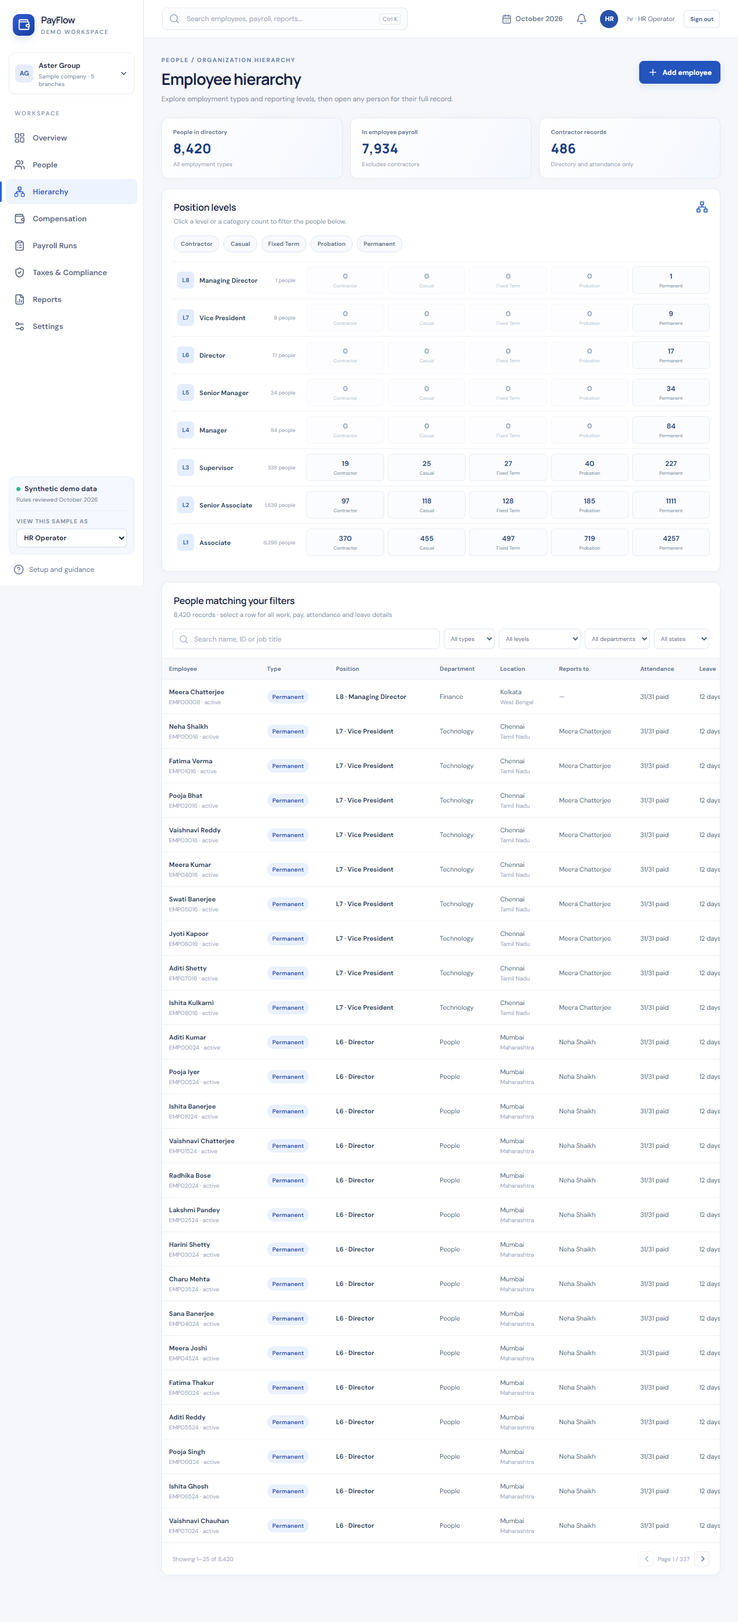
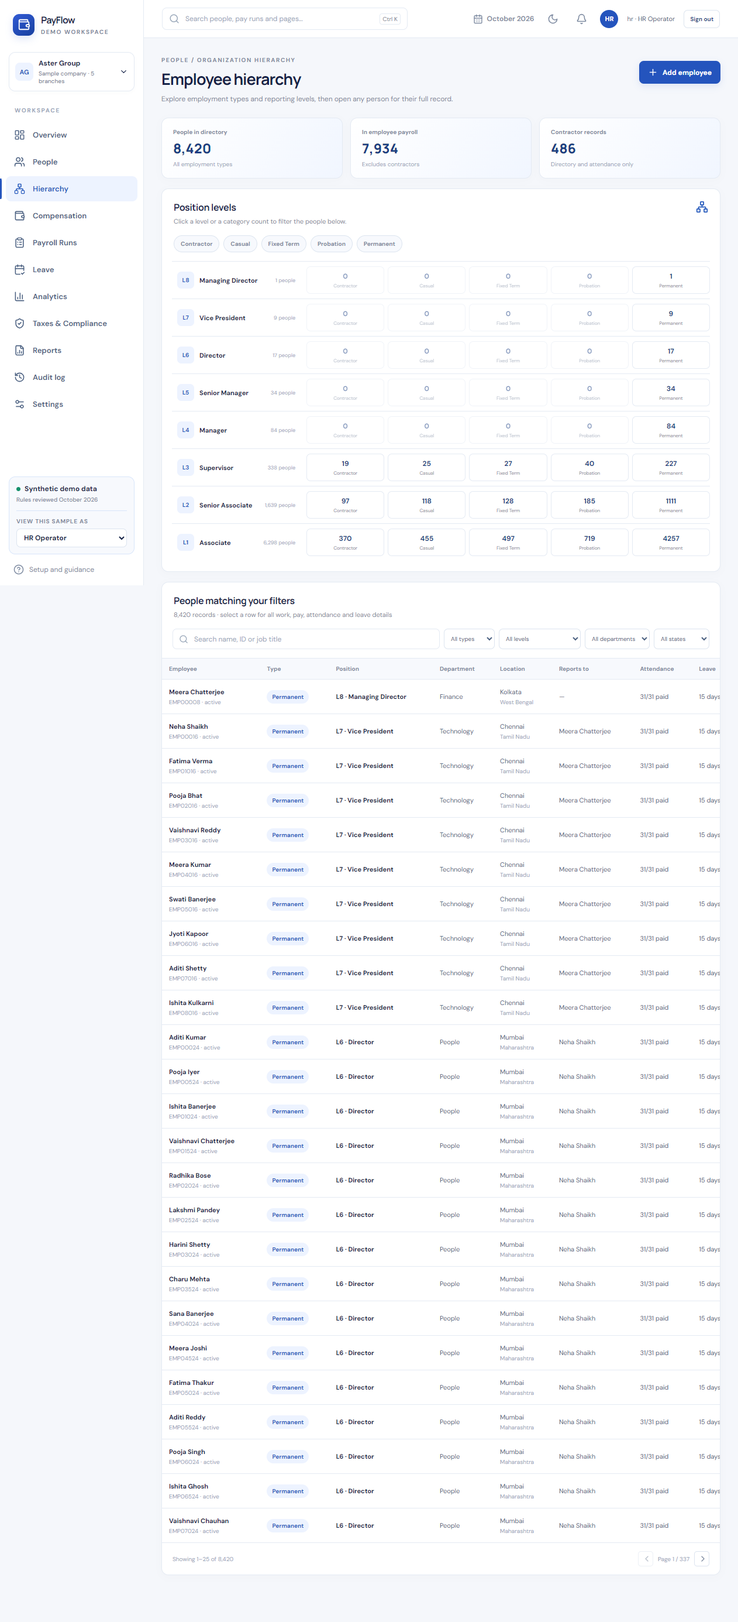
docs: document Phase 3 features, compliance rules and screenshots

diff --git a/README.md b/README.md
@@ -4,9 +4,10 @@
 
 PayFlow is a multi-tenant payroll application for Indian companies. Anyone can sign up and create an organization —
 empty, or pre-filled with a generated sample company — and run the whole monthly cycle: employee records and
-hierarchy, salary revisions, pay periods, CSV input import, calculation (income tax, EPF, ESI and state deductions),
-exception review, maker-checker approval, payment, period close, payslips, statutory preparation reports and an
-audit trail. Employees get a self-service portal for their own record, tax-regime choice and payslips.
+hierarchy, salary revisions, leave, pay periods, CSV input import, calculation (income tax, EPF, ESI and state
+deductions), exception review, maker-checker approval, payment, period close, PDF payslips, statutory preparation
+reports, analytics and an audit log. Employees get a self-service portal for their payslips, an old-versus-new
+regime tax calculator with their Form 124 declaration, and leave requests that their manager or HR approves.
 
 > **Synthetic data only.** PayFlow is a portfolio project. Its rules were reviewed against Indian regulations in
 > October 2026, but it is not a certified payroll product and its exports are not government or bank upload
@@ -18,14 +19,14 @@ audit trail. Employees get a self-service portal for their own record, tax-regim
 
 PayFlow is being rebuilt from its first prototype in phases. Each phase is committed and pushed when complete.
 
-| Phase                      | Scope                                                                                                                                                                  | Status  |
-| -------------------------- | ---------------------------------------------------------------------------------------------------------------------------------------------------------------------- | ------- |
-| 0 · Baseline & cleanup     | Rebrand to PayFlow, remove hosting/mobile code, run locally with zero setup                                                                                            | ✅ Done |
-| Compliance review          | Rules updated to October 2026 regulations: Labour Codes wage definition, EPF ₹25,000 ceiling with the September split, ESI period rules, state PT/LWF                  | ✅ Done |
-| 1 · Engineering foundation | Shared Zod schemas, Drizzle migrations, modular Fastify API, React Router + TanStack Query, readable components and CSS, unit/integration/end-to-end tests, ESLint, CI | ✅ Done |
-| 2 · Multi-tenant sandbox   | Sign-up and onboarding, sample companies with history, tenant isolation, invitations, pay periods with send-back/pay/close, salary revisions, exits, year-to-date TDS  | ✅ Done |
-| 3 · Features               | Payslip PDFs and history, tax-regime calculator, analytics dashboard, leave & attendance, notifications, Ctrl-K palette, dark mode, audit log page                     | ⏳ Next |
-| 4 · Docs polish            | Architecture walkthrough and final screenshots                                                                                                                         | Planned |
+| Phase                      | Scope                                                                                                                                                                     | Status  |
+| -------------------------- | ------------------------------------------------------------------------------------------------------------------------------------------------------------------------- | ------- |
+| 0 · Baseline & cleanup     | Rebrand to PayFlow, remove hosting/mobile code, run locally with zero setup                                                                                               | ✅ Done |
+| Compliance review          | Rules updated to October 2026 regulations: Labour Codes wage definition, EPF ₹25,000 ceiling with the September split, ESI period rules, state PT/LWF                     | ✅ Done |
+| 1 · Engineering foundation | Shared Zod schemas, Drizzle migrations, modular Fastify API, React Router + TanStack Query, readable components and CSS, unit/integration/end-to-end tests, ESLint, CI    | ✅ Done |
+| 2 · Multi-tenant sandbox   | Sign-up and onboarding, sample companies with history, tenant isolation, invitations, pay periods with send-back/pay/close, salary revisions, exits, year-to-date TDS     | ✅ Done |
+| 3 · Features               | PDF payslips and history, regime calculator with Form 124 declarations, analytics, OSH Code leave, notifications, Ctrl-K palette, dark mode, audit log, multi-org sign-in | ✅ Done |
+| 4 · Docs polish            | Architecture walkthrough and final screenshots                                                                                                                            | ⏳ Next |
 
 ## Quick start
 
@@ -69,9 +70,13 @@ To start over, stop the app and delete the `data/` folder.
 5. Open **New pay run** for November: the payment date must be before the 7th of the next month, and November's tax
    projection uses October's approved pay.
 6. In **People** or **Compensation**, open a person to edit their record, add a salary revision effective from a
-   future month, or record an exit (the exit month is pro-rated and flagged for two-day final settlement).
-7. Sign in as `employee` to see only your own record, choose a tax regime (while the run is a draft) and view your
-   latest approved payslip.
+   future month, check their tax declaration and leave, or record an exit (the exit month is pro-rated and flagged
+   for two-day final settlement).
+7. Sign in as `employee`: compare the two tax regimes and declare rent and savings under **Tax & declarations**,
+   request leave without pay under **Leave**, and download payslips as PDF.
+8. Back as `hr`, the bell shows the request. Approve it on **Leave**, recalculate October, and the employee's line
+   shows the unpaid days. Press **Ctrl K** anywhere to jump to a person, a pay run or a page, and use the moon
+   icon for dark mode.
 
 ## Features
 
@@ -89,9 +94,22 @@ To start over, stop the app and delete the `data/` folder.
   days. Monthly TDS uses actual year-to-date salary and tax from approved runs.
 - **People**: directory, hierarchy explorer, editable records, effective-dated salary revisions, exits with
   reassignment checks.
-- **Calculation engine** (rule version `IN-TY2026-27-v2`, reviewed October 2026):
+- **Tax declarations and regimes**: employees declare rent, s. 123 savings, NPS, health insurance and home-loan
+  interest on a Form 124-style form, HR verifies it, and a calculator compares the year under both regimes with
+  the same projection that monthly TDS uses.
+- **Leave**: earned leave under the OSH Code (one day per 20 days worked last year, after 180 days, with up to 30
+  days carried forward), sick and casual leave, and leave without pay. Requests go to the person's manager or HR;
+  approved unpaid leave becomes loss of pay in that month's run.
+- **Payslips**: a wage slip for every approved month, viewable in the portal or downloadable as a PDF with
+  earnings, deductions, employer contributions and statutory wages.
+- **Analytics**: monthly cost trend, cost by department, statutory contributions, headcount by level and type, and
+  the biggest month-over-month pay changes. Lines whose gross pay moves more than 25% are flagged for review.
+- **Workspace**: a notification bell (approval requests, send-backs, payslips, leave decisions), a Ctrl K
+  command palette with server-side search, an audit log with filters, dark mode, and one sign-in for several
+  organizations with a switcher.
+- **Calculation engine** (rule version `IN-TY2026-27-v3`, reviewed October 2026):
   - Income-tax Act, 2025: both regimes, the ₹60,000 rebate with marginal relief, surcharge and cess, monthly TDS
-    under s. 392.
+    under s. 392, and old-regime deductions from Form 124 including the 50% HRA limit for eight cities (rule 279).
   - Labour Codes "wages" with the 50% exclusion cap; Code on Wages payment deadline and exit settlement reminder.
   - EPF/EPS/EDLI: the ₹25,000 ceiling from 17 September 2026 with the EPFO day-split for September, EPS exit at 58,
     and admin charges.
@@ -101,26 +119,32 @@ To start over, stop the app and delete the `data/` folder.
 
 ## Interface
 
-| Sign-up                                                      | Pay runs                                                 |
-| ------------------------------------------------------------ | -------------------------------------------------------- |
-| ![Sign-up](docs/screenshots/signup.png)                      | ![Pay runs](docs/screenshots/pay-runs.png)               |
-| **Calculation trace**                                        | **Salary history**                                       |
-| ![Calculation trace](docs/screenshots/calculation-trace.png) | ![Salary history](docs/screenshots/salary-history.png)   |
-| **State rules**                                              | **Employee portal**                                      |
-| ![State rules](docs/screenshots/compliance.png)              | ![Employee portal](docs/screenshots/employee-portal.png) |
+| Analytics                                                    | Analytics in dark mode                                         |
+| ------------------------------------------------------------ | -------------------------------------------------------------- |
+| ![Analytics](docs/screenshots/analytics.png)                 | ![Analytics, dark](docs/screenshots/analytics-dark.png)        |
+| **Payroll review**                                           | **Regime calculator and Form 124**                             |
+| ![Payroll review](docs/screenshots/payroll-review.png)       | ![Tax and declarations](docs/screenshots/tax-declarations.png) |
+| **Leave approvals**                                          | **Command palette**                                            |
+| ![Leave](docs/screenshots/leave.png)                         | ![Command palette](docs/screenshots/command-palette.png)       |
+| **Calculation trace**                                        | **Payslips**                                                   |
+| ![Calculation trace](docs/screenshots/calculation-trace.png) | ![Payslips](docs/screenshots/payslips.png)                     |
 
-More: [sign-in](docs/screenshots/login.png) · [overview](docs/screenshots/hr-overview.png) ·
-[hierarchy](docs/screenshots/hierarchy.png) · [settings](docs/screenshots/settings.png)
+More: [sign-in](docs/screenshots/login.png) · [sign-up](docs/screenshots/signup.png) ·
+[overview](docs/screenshots/hr-overview.png) · [pay runs](docs/screenshots/pay-runs.png) ·
+[payroll in dark mode](docs/screenshots/payroll-dark.png) · [audit log](docs/screenshots/audit-log.png) ·
+[salary history](docs/screenshots/salary-history.png) · [hierarchy](docs/screenshots/hierarchy.png) ·
+[state rules](docs/screenshots/compliance.png) · [employee portal](docs/screenshots/employee-portal.png) ·
+[settings](docs/screenshots/settings.png)
 
 ## Architecture
 
 ```mermaid
 flowchart LR
   subgraph Browser
-    Web["apps/web<br/>React 19 · React Router · TanStack Query"]
+    Web["apps/web<br/>React 19 · React Router · TanStack Query<br/>Recharts · cmdk"]
   end
   subgraph Node["Node.js 24"]
-    API["apps/api<br/>Fastify 5 · Zod validation<br/>organization-scoped modules"]
+    API["apps/api<br/>Fastify 5 · Zod validation<br/>organization-scoped modules · pdfkit"]
     Core["packages/core<br/>payroll and tax rules"]
     DB["Drizzle ORM + migrations"]
   end
@@ -134,16 +158,17 @@ flowchart LR
   Shared -.-> API
 ```
 
-| Workspace         | Responsibility                                                                                                                                                                                     |
-| ----------------- | -------------------------------------------------------------------------------------------------------------------------------------------------------------------------------------------------- |
-| `packages/core`   | Pure calculation library in integer paise: income tax, Labour Codes wages, EPF/EPS/EDLI, ESI, state PT/LWF. No I/O.                                                                                |
-| `packages/shared` | One source of truth used by both apps: roles and the permission matrix, Zod request schemas and response types.                                                                                    |
-| `apps/api`        | Fastify app built by `buildApp()`. Modules for `organizations` (sign-up, sample companies, view-as), `auth` (sessions, invitations), `employees` and `runs`; every service takes the organization. |
-| `apps/web`        | React app with real URLs (`/overview`, `/payroll/:runId`, `/signup`, `/invite`, `/me`, …), a TanStack Query data layer, shared UI components and design tokens in CSS split by area.               |
+| Workspace         | Responsibility                                                                                                                                                                                                                                                                          |
+| ----------------- | --------------------------------------------------------------------------------------------------------------------------------------------------------------------------------------------------------------------------------------------------------------------------------------- |
+| `packages/core`   | Pure calculation library in integer paise: income tax, Labour Codes wages, EPF/EPS/EDLI, ESI, state PT/LWF. No I/O.                                                                                                                                                                     |
+| `packages/shared` | One source of truth used by both apps: roles and the permission matrix, Zod request schemas and response types.                                                                                                                                                                         |
+| `apps/api`        | Fastify app built by `buildApp()`. Modules for `organizations`, `auth` (identities, memberships, sessions, invitations), `employees`, `runs` (with PDF payslips), `leave`, `tax`, `analytics` and `workspace` (notifications, search, audit log); every service takes the organization. |
+| `apps/web`        | React app with real URLs (`/overview`, `/payroll/:runId`, `/analytics`, `/leave`, `/audit`, `/me/tax`, …), a TanStack Query data layer, shared UI components, and light and dark design tokens in CSS split by area. Charts load only on pages that show them.                          |
 
-**Tenancy.** Each request's session resolves to one account in one organization. Services receive that
-organization's ID and filter every query by it, and employee codes (`EMP00001`) are unique only within an
-organization. Isolation is covered by integration tests that try to read and act on another organization's runs,
+**Tenancy.** A person signs in with one identity, which can have memberships in several organizations, each with
+its own role. Each session belongs to one membership, so every request resolves to one organization; services
+receive that organization's ID and filter every query by it, and employee codes (`EMP00001`) are unique only
+within an organization. An admin can reset a password only for people who belong to that organization alone. Isolation is covered by integration tests that try to read and act on another organization's runs,
 people, accounts and exports.
 
 **Database.** The schema lives in [`apps/api/src/db/schema.ts`](apps/api/src/db/schema.ts). SQL migrations are
@@ -153,18 +178,20 @@ PostgreSQL server instead.
 
 ## Testing
 
-| Command             | What it checks                                                                                                                                                 |
-| ------------------- | -------------------------------------------------------------------------------------------------------------------------------------------------------------- |
-| `npm test`          | 32 statutory rule cases in the calculation library, and 34 API integration tests against an in-memory database                                                 |
-| `npm run e2e`       | Two Playwright journeys in a real browser: a run prepared, sent back, approved, paid and closed across roles; sign-up with a sample company and role switching |
-| `npm run typecheck` | TypeScript across all four workspaces                                                                                                                          |
-| `npm run lint`      | ESLint (TypeScript and React hooks rules)                                                                                                                      |
-| `npm run format`    | Prettier                                                                                                                                                       |
+| Command             | What it checks                                                                                                                                                                                                                                                         |
+| ------------------- | ---------------------------------------------------------------------------------------------------------------------------------------------------------------------------------------------------------------------------------------------------------------------- |
+| `npm test`          | 43 statutory rule cases in the calculation library, and 50 API integration tests against an in-memory database                                                                                                                                                         |
+| `npm run e2e`       | Four Playwright journeys in a real browser: a run prepared, sent back, approved, paid and closed; sign-up with a sample company, role switching and PDF payslips; unpaid leave from request to the pay run with notifications, Ctrl K and dark mode; audit log filters |
+| `npm run typecheck` | TypeScript across all four workspaces                                                                                                                                                                                                                                  |
+| `npm run lint`      | ESLint (TypeScript and React hooks rules)                                                                                                                                                                                                                              |
+| `npm run format`    | Prettier                                                                                                                                                                                                                                                               |
 
 The API tests boot the real app with `buildApp()` on PGlite in memory. They cover sign-up validation, sample
 history and year-to-date tax, empty organizations, tenant isolation, invitations, view-as and resets, sessions and
 lockout, role permissions, employee self-service limits, salary revisions, exits and proration, imports, the
-exception gate, send-back, maker-checker, payment, close, payment deadlines and exports. Locally, `npm run e2e` uses
+exception gate, send-back, maker-checker, payment, close, payment deadlines, exports, PDF payslips, leave balances
+and approvals, declarations and the regime calculator, notifications, search, the audit log, analytics, and
+switching between organizations. Locally, `npm run e2e` uses
 Microsoft Edge; CI installs Chromium. GitHub Actions runs every check on each push.
 
 ## Scripts

diff --git a/docs/compliance-notes.md b/docs/compliance-notes.md
@@ -4,7 +4,7 @@ PayFlow is a portfolio project. It runs on **synthetic data only** and must not 
 produce statutory filings, or store real employee, salary, tax or bank details.
 
 The calculation rules were **reviewed in October 2026** against the regulations below. Rule version:
-`IN-TY2026-27-v2+IN-STATES-2026-10` (shown on every payroll line). Rules change by notification, so verify
+`IN-TY2026-27-v3+IN-STATES-2026-10` (shown on every payroll line). Rules change by notification, so verify
 against the official portals before relying on any figure.
 
 ## What the rule pack implements
@@ -20,6 +20,27 @@ against the official portals before relying on any figure.
 | Surcharge and cess   | 10% / 15% / 25% / 37% (new regime capped at 25%) with marginal relief; 4% health and education cess                                                                                                                                                                                                                                                                                                                              |
 | Monthly TDS (s. 392) | Annual tax is projected from salary actually paid earlier in the tax year (from approved runs), this month's actual pay and regular pay for the remaining months. TDS already deducted in those runs is subtracted and the balance is spread over the remaining months, so earlier under- or over-deduction is corrected going forward. Months before joining are not counted, and this month's loss of pay is not extrapolated. |
 | Returns              | Quarterly salary TDS statement is **Form 138** (replaces 24Q); the annual certificate is **Form 130** (replaces Form 16)                                                                                                                                                                                                                                                                                                         |
+
+### Old-regime declarations: Form 124 and the Income-tax Rules, 2026
+
+Employees declare rent and savings to the employer on **Form 124** (it replaced Form 12BB from tax year 2026-27;
+s. 392(5)(b) with rule 205). PayFlow uses the declaration for TDS only under the old regime, and HR marks it
+verified once proofs are checked. Changing a declaration sends it back for verification.
+
+| Deduction                | Rule applied                                                                                                                                                                                                            |
+| ------------------------ | ----------------------------------------------------------------------------------------------------------------------------------------------------------------------------------------------------------------------- |
+| House rent allowance     | Least of HRA received, 50% of basic (40% outside the eight cities) and rent above 10% of basic. **Rule 279** adds Bengaluru, Hyderabad, Pune and Ahmedabad to the 50% list alongside Delhi, Mumbai, Kolkata and Chennai |
+| Landlord PAN             | Required when rent is above ₹1,00,000 a year; the relationship with the landlord is asked for, as on Form 124                                                                                                           |
+| Savings, s. 123 (ex-80C) | Schedule XV savings plus the employee's own PF, up to ₹1,50,000                                                                                                                                                         |
+| Additional NPS, s. 124   | Up to ₹50,000 beyond s. 123                                                                                                                                                                                             |
+| Health insurance, s. 126 | Self and family ₹25,000 (₹50,000 from age 60); parents ₹25,000 (₹50,000 if a parent is 60 or older)                                                                                                                     |
+| Home loan interest       | Self-occupied home, up to ₹2,00,000                                                                                                                                                                                     |
+| Professional tax         | Tax on employment actually deducted, up to ₹2,500 a year (Article 276)                                                                                                                                                  |
+| New regime (s. 202)      | None of the above; only the ₹75,000 standard deduction                                                                                                                                                                  |
+
+The regime calculator projects the year under both regimes with the same method as monthly TDS (salary paid so far,
+then the regular salary to March) and recommends the cheaper one; the new regime is kept when they are equal.
+Employees choose their regime while the month's run is a draft.
 
 ### Wages: Code on Wages, 2019 and Code on Social Security, 2020 (in force from 21 November 2025)
 
@@ -76,6 +97,25 @@ applied.
 | Salary revisions      | Effective-dated, starting on the first of a month after the last approved period. Approved runs are never recalculated.                                                                              |
 | Reviewed tax year     | Periods outside tax year 2026–27 carry a warning that rates must be verified for that year.                                                                                                          |
 
+### Wage slips: Code on Wages, 2019, s. 50(3)
+
+Employers must give a wage slip, electronic or on paper, on or before paying wages. PayFlow makes payslips
+available to employees as soon as Finance approves a run (always before the payment date), notifies employees with
+an account, and offers each one as a PDF with earnings, deductions, employer contributions, statutory wages, days
+paid and loss-of-pay days. Built-in PDF fonts have no rupee sign, so amounts are labelled INR.
+
+### Leave: OSH Code, 2020, s. 32 (in force from 21 November 2025)
+
+| Item                  | Rule applied                                                                                                                         |
+| --------------------- | ------------------------------------------------------------------------------------------------------------------------------------ |
+| Earned leave          | One day for every 20 days worked in the previous calendar year, for workers who worked 180 days or more in that year                 |
+| Days worked           | Working days employed last year (Monday to Saturday); Sunday is the weekly rest day and is not counted in leave requests             |
+| Carry forward         | Up to 30 days, recorded by HR per person and year                                                                                    |
+| Sick and casual leave | 12 days a year, pro-rated by month for joiners. This is set by state shops and establishments rules, which differ                    |
+| Leave without pay     | Approved days are added to the month's unpaid days and deducted as loss of pay; a calculated run goes back to draft when they change |
+| Approved months       | Leave cannot be requested or approved for a month whose run is with Finance or approved                                              |
+| Decisions             | HR decides any request; a manager with a PayFlow sign-in decides their direct reports'; nobody decides their own                     |
+
 ## Known limitations
 
 - Tamil Nadu PT uses six times the current month's gross as the half-yearly income, and slabs vary by local
@@ -87,10 +127,20 @@ applied.
   months are not modelled.
 - Final settlement within two working days is flagged, not computed: leave encashment, notice pay and gratuity on
   exit are outside the monthly run.
-- Not yet modelled: HRA exemption and old-regime declarations in detail, perquisites, employer PF above ₹7.5L,
-  gratuity accrual, minimum-wage checks, and the ESI disability ceiling (₹25,000).
+- The HRA exemption assumes rent for every month employed in the tax year; changes of address mid-year are not
+  split. Declared amounts are taken at face value until HR verifies proofs.
+- Leave encashment (including the s. 32 option to encash leave beyond the carry-forward limit), half days,
+  holidays and state-specific leave rules are not modelled. Earned leave accrual uses days employed, not
+  attendance records.
+- Not yet modelled: perquisites, employer PF above ₹7.5L, gratuity accrual, minimum-wage checks, and the ESI
+  disability ceiling (₹25,000).
 
 ## Sources
+
+- [Form 124 replaces Form 12BB](https://taxguru.in/income-tax/income-tax-form-124-employee-statement-salary-declaration-tds-deduction.html) · [Section 123 (formerly 80C)](https://www.taxtmi.com/tmi_notes?id=1581) · [Old and new section mapping](https://taxgarden.in/blog/income-tax-act-2025-section-mapping-old-vs-new-india)
+- [HRA 50% limit for eight cities under rule 279](https://taxguru.in/income-tax/hra-exemption-8-cities-qualify-50-percent-exemption-practical-guide.html) · [Income-tax Rules 2026 notified](https://www.caalley.com/news-updates/indian-news/new-tax-rules-notified-from-hra-to-company-car-to-meal-card-top-5-prominent-changes-which-will-impact-salaried-taxpayers)
+- [Annual leave under the OSH Code](https://simpliance.in/blog/?p=915) · [Carry forward and encashment](https://www.outlookmoney.com/news/new-labour-codes-change-heres-how-you-earn-carry-and-encash-leave) · [OSH Central Rules 2026](https://trilegal.com/knowledge-repository/trilegal-update-labour-codes-move-closer-to-full-implementation-takeaways-from-the-newly-notified-central-rules/)
+- [Wage slips under the Code on Wages](https://lexplosion.in/code-on-wages-2019-compliance-related-changes-state-rules-are-at-different-stages-of-finalisation/)
 
 - [Code on Wages, 2019, s. 17: time limit for payment of wages](https://www.advocatekhoj.com/library/bareacts/codeonwages/17.php) · [Two-working-day final settlement](https://www.livelaw.in/articles/two-working-days-code-wages-employee-final-settlement-552780)
 - [TDS on salary at the average rate under section 392](https://www.taxheal.com/tds-on-salary-under-section-392-of-income-tax-act.html)
